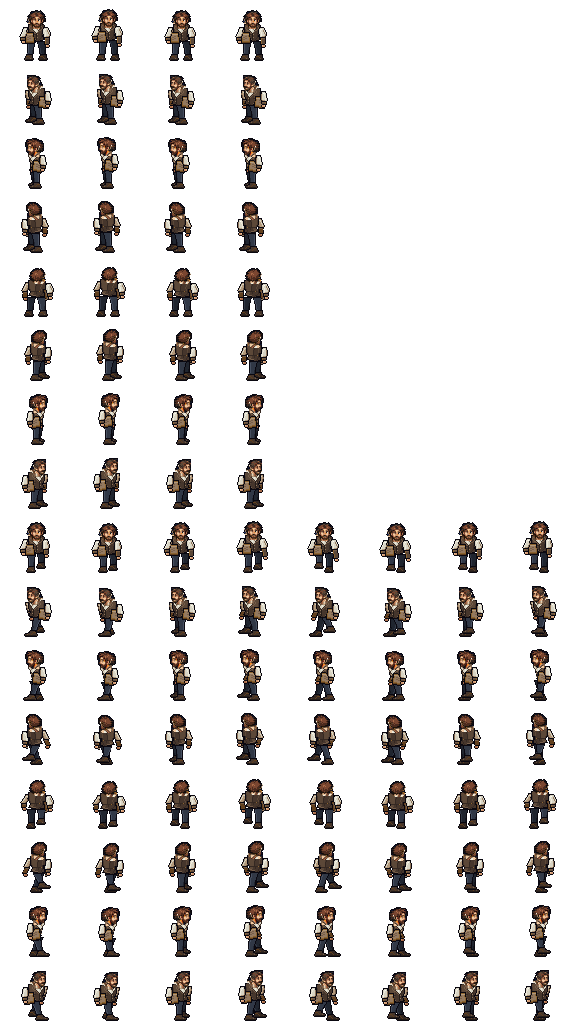
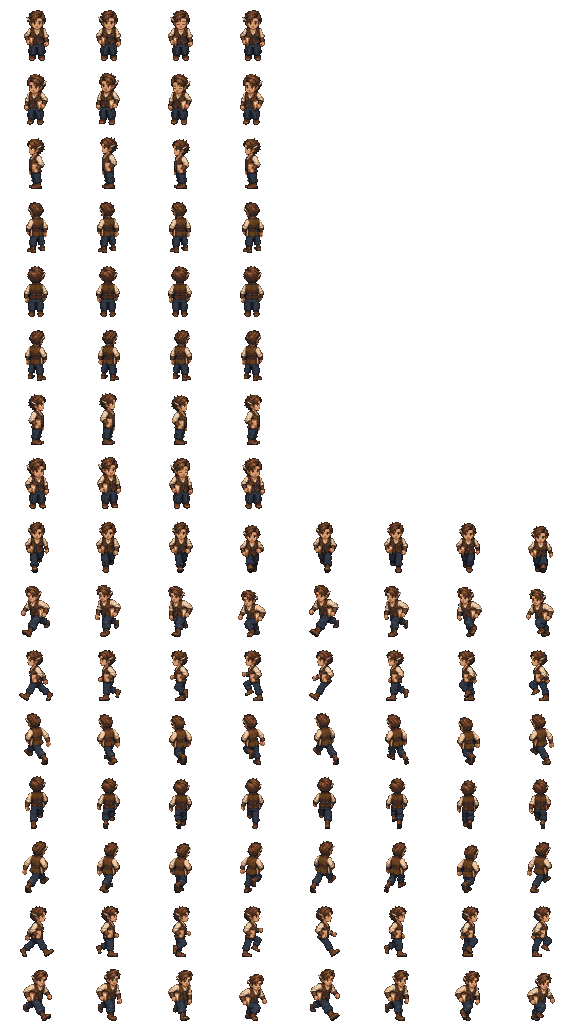
The clerk redrawn: the art desk's illustrated pair, its own cut
The art desk's ART-WANTED-79 CLERK ILLUSTRATED REDRAW (art-wanted 65's clerk, the woman and the
man: a brown waistcoat over ivory sleeves, leather sleeve-guards, a wax tablet against the ribs, a
pen behind the ear; her slate skirt, his slate trousers) cut into folkman_clerk_p1 and
folkwoman_clerk_p1 in place of the 11-15 code-drawn pair. By md5 a redraw, not a copy: of the 11-15
clerk's files only the palette PNG is in it. Its own native cut on the 64 (NATIVE/, a strip a row)
taken as drawn; the drawn rows match its own candidate atlases pixel for pixel but the clown-red on
faces and hands moved off red (`unred` everywhere: no red cloth; 424 and 87 pixels). Its atlases'
mirrors are a plain flip; ours stay mirrored about the anchor (a pixel's shift). Five walks the art
desk held cut as drawn, on the dream list. Silverton's street clerk (towns6) stands in her.

tools/folk-costume-sheet.py reads the clerk's list map (strips by figure, view and row) and the drive
spear's CSV (its native strip and cell named). Every other costume rebuilt byte for byte. Sorted out
of Fresh to deep16/_src/folkcostumes/2026-11-18-ART-WANTED-79-CLERK-REDRAW/
(_src/art-desk/art79-80-redraw-sort-2026-11-18.py, every SHA-256 checked).

folk1115 ok, parade1115 22 ok, generic1028 7 ok. Eyes eyes-folk-clerk-redraw-1118 (the gallery's
CREATURES shelf).

On the lanes desk's relay, Griz: "there's more for the cutter now I think".

diff --git a/js/eyes.js b/js/eyes.js
@@ -22,6 +22,11 @@
   var DS = window.DS = window.DS || {};
   var G1 = 'Eyes: first', G2 = 'Eyes: built this week', G3 = 'Eyes: built before, never seen';
   DS.EYES = {
+    // THE CUTTER (cutter-1118), 11-18, its second brief (Opus; tools/folk-costume-sheet.py clerk; deep16/art/folk{man,woman}_clerk_p1): the clerk redrawn
+    'eyes-folk-clerk-redraw-1118': { pri: 2, group: G2, title: 'THE CLERK REDRAWN: Silverton\'s street clerk and the man in the art desk\'s illustrated figures, a wax tablet and a pen (11-18)', pt: 'the bestiary lane, 2026-11-18 (the cutter, cutter-1118; tools/folk-costume-sheet.py; deep16/art/folk{man,woman}_clerk_p1)',
+      obj: 'In the gallery, look over the clerk pair, wax tablet and pen behind the ear — do they read as their portraits?',
+      url: 'deep16/?gallery&shelf=creatures&rows=folkman_clerk_p1,folkwoman_clerk_p1&beside&fresh=1118e',
+      look: 'A LOOK, the gallery\'s CREATURES shelf with the pair side by side: the art desk\'s illustrated redraw of the clerk, in place of the code-drawn pair you called "laughably hideous" and kept till the redraws came -- a brown waistcoat over ivory sleeves, leather sleeve-guards, a wax tablet against the ribs and a pen behind the ear; the woman in a slate skirt, the man in slate trousers. Taken as the art desk cut them; only the clown-red on faces and hands moved off red. Silverton\'s street clerk (the woman) stands in her (deep16/?roam=silverton&lvl=3). Five walks the art desk held (both SE and rear NE, the man\'s E: the second contact reads as the same lead) are in as drawn and on the wishlist. In motion: the day\'s parade, deep16/?parade&only=wyvern,frostgiant,winterwolf,guard,cockatrice,greenhag&from=5 (the clerk pair and the crew boss pair walk in round the cockatrice). Judge: do they read as their portraits; can you make out the tablet?' },
     // THE POPUP-RING SEAT'S SECOND PIECE, 11-18 (Opus; deep16/js/battle.js readySpring; js/ui.js UI.readyShow; dev/bench16.js mode=ready1113 6c): READY! at the ask
     'eyes-readyword-1118': { pri: 2, group: G2, title: 'READY! AT THE ASK: the word and the gold ring over the one who readied, as the choice to use it comes up (11-18)', pt: 'READY on the ring, 2026-11-18 (the popup-ring seat\'s second piece; deep16/js/battle.js readySpring, js/ui.js UI.readyShow)',
       obj: 'Watch the goblin walk into the fighter\'s readied swing, then the readied Dodge — does READY! pop as you\'re asked?',

diff --git a/deep16/data/sprites.js b/deep16/data/sprites.js
@@ -5148,7 +5148,7 @@
 "source": "drawn by the art desk (ART-WANTED-75 BARKEEP ILLUSTRATED REDRAW, 11-16: five views, Idle 4 and Walk 8, image-generated, its native cut 1x on folkman_p1's cell), cut by tools/folk-costume-sheet.py (11-15)"
 },
 "folkman_clerk_p1": {
-"image": "art/folkman_clerk_p1.png?v=1c79fc024b",
+"image": "art/folkman_clerk_p1.png?v=b27e4d18bf",
 "fw": 72,
 "fh": 64,
 "ax": 36,
@@ -5174,7 +5174,7 @@
 "fps": 12
 }
 },
-"source": "drawn by the art desk (ART-WANTED-79 CLERK, 11-15: five views, Idle 4 and Walk 8, native 4x on folkman_p1's cell), cut by tools/folk-costume-sheet.py (11-15)"
+"source": "drawn by the art desk (ART-WANTED-79 CLERK ILLUSTRATED REDRAW, 11-18: five views, Idle 4 and Walk 8, image-generated, its native cut 1x on folkman_p1's cell), cut by tools/folk-costume-sheet.py (11-15)"
 },
 "folkman_crewboss_p1": {
 "image": "art/folkman_crewboss_p1.png?v=3adc641785",
@@ -5467,7 +5467,7 @@
 "source": "drawn by the art desk (ART-WANTED-75 BARKEEP ILLUSTRATED REDRAW, 11-16: five views, Idle 4 and Walk 8, image-generated, its native cut 1x on folkman_p1's cell), cut by tools/folk-costume-sheet.py (11-15)"
 },
 "folkwoman_clerk_p1": {
-"image": "art/folkwoman_clerk_p1.png?v=91d3204397",
+"image": "art/folkwoman_clerk_p1.png?v=b2362c72f1",
 "fw": 72,
 "fh": 64,
 "ax": 36,
@@ -5493,7 +5493,7 @@
 "fps": 12
 }
 },
-"source": "drawn by the art desk (ART-WANTED-79 CLERK, 11-15: five views, Idle 4 and Walk 8, native 4x on folkman_p1's cell), cut by tools/folk-costume-sheet.py (11-15)"
+"source": "drawn by the art desk (ART-WANTED-79 CLERK ILLUSTRATED REDRAW, 11-18: five views, Idle 4 and Walk 8, image-generated, its native cut 1x on folkman_p1's cell), cut by tools/folk-costume-sheet.py (11-15)"
 },
 "folkwoman_crewboss_p1": {
 "image": "art/folkwoman_crewboss_p1.png?v=1573f7e3a1",

diff --git a/deep16/index.html b/deep16/index.html
@@ -77,7 +77,7 @@
 <script src="js/art.js?v=e1ce4cf012"></script>
 <script src="data/cavern.js?v=647c1a184a"></script>
 <script src="data/maps.js?v=bef56a5de9"></script>
-<script src="data/sprites.js?v=7d8da27938"></script>
+<script src="data/sprites.js?v=2199a75c8e"></script>
 <script src="js/sprites.js?v=3abc98a83a"></script>
 <script src="js/save.js?v=f69af62f01"></script>
 <script src="data/spells.js?v=ae0037fb81"></script>
@@ -192,7 +192,7 @@
 <script src="js/parade.js?v=c64f9440c0"></script>
 <script src="js/ripplesfight.js?v=06a2bb3211"></script>
 <script src="js/blackegg.js?v=a19c31ed0d"></script>
-<script src="../js/eyes.js?v=33b475acf0"></script>
+<script src="../js/eyes.js?v=4868316de4"></script>
 <script src="../js/tour.js?v=7715ef6c40"></script>
 <script src="js/onegallery.js?v=76e4ef74c9"></script>
 <script src="js/situations16.js?v=5ca0e8c2ff"></script>

diff --git a/tools/folk-costume-sheet.py b/tools/folk-costume-sheet.py
@@ -104,8 +104,17 @@ PIECES = {
     # cloth); `shared`: the map's frames for the other piece's figures passed over)
     'crewboss': dict(folder='2026-11-18-ART-WANTED-78-CREW-BOSS-REDRAW', name='ART-WANTED-78 CREW-BOSS ILLUSTRATED REDRAW, 11-18: five views, Idle 4 and Walk 8, image-generated, its native cut 1x on folkman_p1\'s cell',
                      navy=None, stand=False, unred=0, shared=True),
-    'clerk': dict(folder='2026-11-15-ART-WANTED-79-CLERK', name='ART-WANTED-79 CLERK, 11-15: five views, Idle 4 and Walk 8, native 4x on folkman_p1\'s cell',
-                  navy=(17, 24, 45), stand=False),
+    # (the clerk's first, code-drawn pages -- 2026-11-15-ART-WANTED-79-CLERK, native 4x, navy (17, 24, 45) -- replaced by its redraw, 11-18: image-generated
+    # on the navy with the art desk's own native cut on the 64 (NATIVE/, a strip a row), taken as drawn but for the red and fire on faces and hands,
+    # `unred` everywhere -- no red cloth (a brown waistcoat, ivory sleeves, slate below; the warm streak at the head is the pen behind the ear, not red);
+    # five walks the art desk held (both SE and rear NE, the man's E), cut as drawn)
+    'clerk': dict(folder='2026-11-18-ART-WANTED-79-CLERK-REDRAW', name='ART-WANTED-79 CLERK ILLUSTRATED REDRAW, 11-18: five views, Idle 4 and Walk 8, image-generated, its native cut 1x on folkman_p1\'s cell',
+                  navy=None, stand=False, unred=0),
+    # the drive spear (art-wanted 65's piece 5, the art desk's 80, 11-18; the first to come: the Galleries' bat-drive hands, a short spear upright in the
+    # right hand, one shoulder guard): its native cut taken as drawn, `unred` everywhere (no red cloth); the drive crew (C.GENERIC drivecrew) moves into
+    # the man as it lands; four walks the art desk held for LOOK (both SE and rear NE), cut as drawn
+    'drivespear': dict(folder='2026-11-18-ART-WANTED-80-DRIVE-SPEAR', name='ART-WANTED-80 DRIVE SPEAR ILLUSTRATED, 11-18: five views, Idle 4 and Walk 8, image-generated, its native cut 1x on folkman_p1\'s cell',
+                       navy=None, stand=False, unred=0),
     # the crew boss man's fight sheet (the art desk's 78, on his "pasted to the art desk re Crew Boss"): foes.js crewboss wears it, off Hask's
     # hask_p1; its own 96 x 96 cell, the trooper's fight rows (trooper_p2's fps), the Mace's blow landing on its frame 4 (`release` 3)
     'crewbossfight': dict(folder='2026-11-18-ART-WANTED-78-CREW-BOSS-REDRAW', name='ART-WANTED-78 CREW-BOSS ILLUSTRATED REDRAW, 11-18: his fight figure, five views, Ready Idle 4, Walk 8, Mace 6, Flinch 4, Fall 6, Prone 1, image-generated, its native cut 1x on its 96 x 96 cell',
@@ -132,6 +141,10 @@ def frames_of(d):
         if isinstance(fm, list):                # (the guard's redraw and its fight figures, 11-18: a list, a frame an entry, each naming its cell in the art
             # desk's own native strip -- the town pair's `native_file` at `native_xywh`, the fight pair's `native_png` at `native_crop_xywh`, by `person`)
             g = lambda e, *ks: next(e[k] for k in ks if e.get(k) not in (None, ''))
+            if 'figure' in fm[0] and 'native_file' not in fm[0]:   # (the clerk's redraw, 11-18: no strip named; its native cut of a row is
+                # NATIVE/<figure>-<view>-<row>.png, a transparent strip from frame 1)
+                return [(e['runtime_target'], e['facing'], e['action'], int(e['frame']) - 1, 'NATIVE/%s-%s-%s.png' % (e['figure'], e['facing'], e['action']),
+                         ((int(e['frame']) - 1) * e['cell'][0], 0, e['cell'][0], e['cell'][1])) for e in fm]
             return [(g(e, 'runtime_target', 'person'), e['facing'], g(e, 'action', 'row'), int(e['index']), g(e, 'native_file', 'native_png'),
                      tuple(int(v) for v in g(e, 'native_xywh', 'native_crop_xywh'))) for e in fm]
         if 'sheets' in fm and 'source_png' in fm['sheets'][0]:   # (the gambler's and barkeep's redraws, 11-16: `sheets` map each row to its
@@ -152,6 +165,10 @@ def frames_of(d):
             row = {'attack': 'mace', 'hurt': 'fall'}.get(r['action'], r['action'])
             out.append((r['target'], r['facing'], r['action'], int(r['frame_index']), '%s/NATIVE-PREVIEWS/%s-%s-1X.png' % (r['source_png'].split('/')[0], r['facing'], row),
                         (int(r['frame_index']) * w, 0, w, h)))
+            continue
+        if r.get('native_png'):         # (the drive spear, 11-18: each frame's own cell in the art desk's native strip, named)
+            out.append((r['runtime_target'], r['facing'], r['action'], int(r['frame_index']), r['native_png'],
+                        (int(r['native_x']), int(r['native_y']), int(r['cell_width']), int(r['cell_height']))))
             continue
         g = lambda *ks: next(r[k] for k in ks if r.get(k) not in (None, ''))
         idx = int(g('frame_index', 'index')) if any(r.get(k) not in (None, '') for k in ('frame_index', 'index')) else int(g('frame_1based', 'frame', 'frame_number')) - 1

diff --git a/deep16-dream-polish.md b/deep16-dream-polish.md
@@ -153,3 +153,4 @@ Griz, 10-30, to the lanes desk, on Talmok's walks that repeat a leg: *"gimpy art
 - 2026-11-18 · `folkman_crewboss_p1` SE, E, NE and N walks, `folkwoman_crewboss_p1` every walk (with their mirrors); `crewboss_p1` SE, E and NE walks, S Mace, SE and E Fall (the art desk's 78 illustrated redraw) · The art desk's own holds (ART-HOLDS.json): in the walks frames 1 and 5 read as the same leading boot, or the skirt hides the change, and the 8 to 1 seam stays near contact; his S Mace is foreshortened into his body at the blow, its head hidden; the SE and E falls end partly forward on the shoulder, the mace occluded. Cut as drawn, on his *"use what's there"*. · Walks with a second contact on the other leg; a south blow whose mace head shows at contact; falls that end on the side.
 - 2026-11-18 · `cockatrice_p1` walk, getup (the art desk's 67 illustrated redraw) · The art desk's own notes: SE and E Walk 2 and 3 read like a hold at 1x (the planted claw stays while the far claw passes); the S and N contacts are subtle head-on; in N the head rises 2 px from lying to its rise. Cut as drawn. · Walks whose passing frames read as steps from every side; a rise that keeps the head's height.
 - 2026-11-18 · `greenhag_p1` prone S (the art desk's 70 illustrated redraw) · Measured on the cut: lying from the front she spans rows 69 to 80, all of it below the ground point (62) and 12 rows tall, where her Fall's last frame ends at 54 to 72 -- she lies in front of her square, flatter than the other views. Cut as drawn. · A front prone that lies across her square, as her Fall ends.
+- 2026-11-18 · `folkman_clerk_p1` SE, E and NE walks, `folkwoman_clerk_p1` SE and NE walks (and their mirrors) (the art desk's 79 illustrated redraw) · Held by the art desk for a gait: frames 1 and 5 read as the same lead at game size, and the rear NE 8 to 1 nearly repeats its pose (a brief dwell); the tablet is hidden by the arm from behind and the pen can blend into the hair. Cut as drawn. · Walks with a second contact on the other leg; a tablet that reads from more sides.
